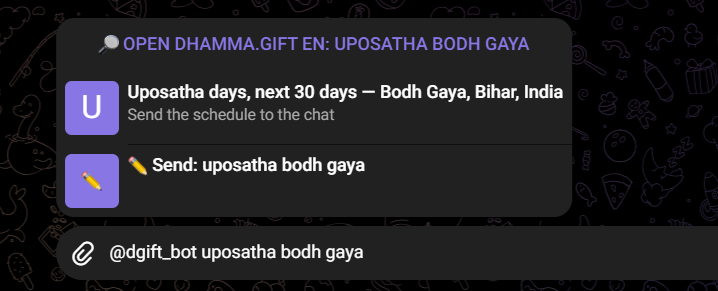
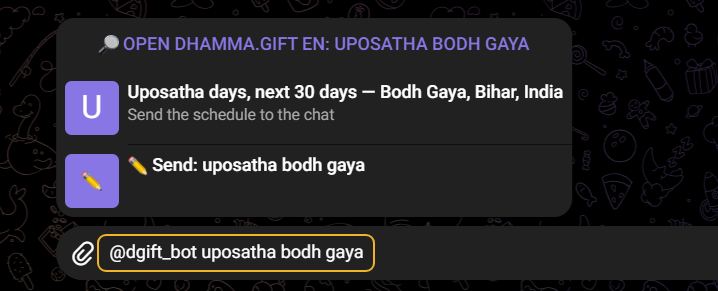
Docs: Microsoft Store and the Telegram bot on the Uposatha page (a section «Where it works» with the badges, the three Windows widgets and /uposatha in the bot), the Microsoft Store badge on the Dhamma.Gift app page; Telegram bot page: the inline screenshots frame what is typed and a caption says it
Claude-Session: https://claude.ai/code/session_019kKsVzdFpaa54zZdAXFvwg

Changed region(s): [[0.1532, 0.8969, 0.5209, 0.9588], [0.1226, 0.8041, 0.5209, 0.8351], [0.1226, 0.8969, 0.1532, 0.9278]]

diff --git a/i18n/ru/docusaurus-plugin-content-docs/current/dhamma/uposatha.md b/i18n/ru/docusaurus-plugin-content-docs/current/dhamma/uposatha.md
@@ -10,6 +10,8 @@ import UpoDates from '@site/static/img/help/uposatha-dates.png';
 import UpoParts from '@site/static/img/help/uposatha-parts.png';
 import UpoSettings from '@site/static/img/help/uposatha-settings.png';
 import AlbumartUposatha from '@site/static/img/thumb/albumart-uposatha-nobg.webp';
+import SiteLink from '@site/src/components/SiteLink';
+import MsStore from '@site/static/img/buttons/msstore-cta.png';
 
 # Дни упосатхи
 
@@ -23,6 +25,21 @@ import AlbumartUposatha from '@site/static/img/thumb/albumart-uposatha-nobg.webp
 (слайдшоу «Из сутт» и список «Показать все»).
 
 <UposathaCalendar />
+
+## Где работает
+
+<div style={{display: 'flex', flexWrap: 'wrap', gap: '12px', alignItems: 'center', margin: '1rem 0'}}>
+  <a href="https://apps.microsoft.com/detail/9NMD1L6H52ZN"><img src={MsStore} alt="Uposatha by the Suttas в Microsoft Store" style={{maxWidth: '200px'}} /></a>
+  <a href="https://t.me/dgift_bot"><img src="/assets/img/buttons/telegram-cta.png" alt="Открыть @dgift_bot в Telegram" style={{maxWidth: '200px'}} /></a>
+  <SiteLink to="/uposatha-calendar"><img src="/assets/img/buttons/pwa-cta.png" alt="Открыть календарь как веб-приложение" style={{maxWidth: '200px'}} /></SiteLink>
+</div>
+
+- **Windows 11** — *Uposatha by the Suttas* в [Microsoft Store](https://apps.microsoft.com/detail/9NMD1L6H52ZN): календарь в своём окне и три виджета для доски
+  виджетов (Win + W, затем «+»). *Uposatha + kala* — сколько до ближайшей упосатхи и время ли сейчас для еды; *Day & night* —
+  какая часть дня или ночи идёт; *Month* — месяц с отмеченными днями упосатхи.
+- **Telegram** — `/uposatha` в чате с [@dgift_bot](https://t.me/dgift_bot) или `@dgift_bot упосатха Алматы`, набранное в любом
+  чате: ближайшие 30 дней с временами Солнца для вашего города. Подробнее — на странице [Телеграм-бот](/telegram-bot).
+- **Любой браузер** — [страница календаря](pathname:///uposatha-calendar); через меню браузера она ставится как приложение.
 
 ## Как читать календарь
 

diff --git a/docs/dhamma/uposatha.md b/docs/dhamma/uposatha.md
@@ -10,6 +10,8 @@ import UpoDates from '@site/static/img/help/uposatha-dates-en.png';
 import UpoParts from '@site/static/img/help/uposatha-parts-en.png';
 import UpoSettings from '@site/static/img/help/uposatha-settings-en.png';
 import AlbumartUposatha from '@site/static/img/thumb/albumart-uposatha-nobg.webp';
+import SiteLink from '@site/src/components/SiteLink';
+import MsStore from '@site/static/img/buttons/msstore-cta.png';
 
 # Uposatha days
 
@@ -23,6 +25,21 @@ the app; below is the real page, a live demo (scroll inside it, or open it in a 
 the calendar page (the slideshow "From the suttas" and its "Show all" list).
 
 <UposathaCalendar />
+
+## Where it works
+
+<div style={{display: 'flex', flexWrap: 'wrap', gap: '12px', alignItems: 'center', margin: '1rem 0'}}>
+  <a href="https://apps.microsoft.com/detail/9NMD1L6H52ZN"><img src={MsStore} alt="Get Uposatha by the Suttas from the Microsoft Store" style={{maxWidth: '200px'}} /></a>
+  <a href="https://t.me/dgift_bot"><img src="/assets/img/buttons/telegram-cta.png" alt="Open @dgift_bot on Telegram" style={{maxWidth: '200px'}} /></a>
+  <SiteLink to="/uposatha-calendar"><img src="/assets/img/buttons/pwa-cta.png" alt="Open the calendar as a web app" style={{maxWidth: '200px'}} /></SiteLink>
+</div>
+
+- **Windows 11** — *Uposatha by the Suttas* in the [Microsoft Store](https://apps.microsoft.com/detail/9NMD1L6H52ZN): the calendar in its own window and three
+  widgets for the Widgets Board (Win + W, then "+"). *Uposatha + kala* — how long to the next Uposatha day and whether it is the
+  time for food now; *Day & night* — the part of the day or night that is going on; *Month* — the month with the Uposatha days marked.
+- **Telegram** — `/uposatha` in the chat of [@dgift_bot](https://t.me/dgift_bot), or `@dgift_bot uposatha Chiang Mai` typed in
+  any chat: the next 30 days with the sun times of your city. More on the [Telegram bot](/telegram-bot) page.
+- **Any browser** — the [calendar page](pathname:///uposatha-calendar); the browser's menu installs it as an app.
 
 ## Reading the calendar
 

diff --git a/docs/user/telegram-bot.md b/docs/user/telegram-bot.md
@@ -34,6 +34,8 @@ Type `@dgift_bot` in the message box of any chat and then a Pali word
 
 <img src={InlineSutta} alt="@dgift_bot sn56.11 in the message box of a chat: Send: sn56.11, sn56.11 Dhammacakkappavattanasutta, sn56.111-113 Devamanussanirayādisutta" style={{maxWidth: '100%', borderRadius: 10}} />
 
+<p style={{fontSize: '0.85em', opacity: 0.75, marginTop: '0.3em'}}>In the frame: what is typed in the message box of <b>any chat or group</b>, not in the bot's own chat.</p>
+
 Above the list there is a button — `🔎 Open Dhamma.gift En: sn56.11` — it opens
 Dhamma.gift as a Mini App with the query already searched.
 
@@ -71,12 +73,17 @@ Open-Meteo geocoder for the rest.
 
 <img src={InlineUposatha} alt="@dgift_bot uposatha bodh gaya in the message box: Uposatha days, next 30 days — Bodh Gaya, Bihar, India" style={{maxWidth: '100%', borderRadius: 10}} />
 
+<p style={{fontSize: '0.85em', opacity: 0.75, marginTop: '0.3em'}}>In the frame: what is typed in the message box of <b>any chat or group</b>, not in the bot's own chat.</p>
+
 The dates are the same for everybody — the moon is one — and only the sun times
 are local. The list ends with `Times: begin · dawn · noon · end`, and two buttons
 sit under the message: the Ru/En switch and the link to the full calendar at
 [dhamma.gift/uposatha-calendar](https://dhamma.gift/uposatha-calendar).
 
 <img src={MessageUposatha} alt="The sent Uposatha message: Uposatha by the suttas for the next 30 days (Bodh Gaya, Bihar, India) with six days and their times, the line Times: begin · dawn · noon · end, and the buttons Lang En/Ru and Uposatha calendar" style={{maxWidth: '100%', borderRadius: 10}} />
+
+How to read these days is on the [Uposatha days](/uposatha) page. On Windows 11 the same calendar is an app with widgets:
+*Uposatha by the Suttas* in the [Microsoft Store](https://apps.microsoft.com/detail/9NMD1L6H52ZN).
 
 ## In the bot's chat
 

diff --git a/i18n/ru/docusaurus-plugin-content-docs/current/user/dhamma-gift-app.md b/i18n/ru/docusaurus-plugin-content-docs/current/user/dhamma-gift-app.md
@@ -3,17 +3,23 @@ slug: /dhamma-gift-app
 sidebar_position: 14
 ---
 
+import MsStore from '@site/static/img/buttons/msstore-cta.png';
+
 # Dhamma.Gift (приложение)
 
 <div style={{display: 'flex', flexWrap: 'wrap', gap: '0.5rem', margin: '1rem 0'}}>
   <a href="https://apps.apple.com/app/id6813706217"><img src="/assets/img/buttons/appstore-cta.png" alt="Загрузите в App Store" style={{height: '56px'}} /></a>
   <a href="https://play.google.com/store/apps/details?id=gift.dhamma.twa"><img src="/assets/img/buttons/google-play-cta.png" alt="Доступно в Google Play" style={{height: '56px'}} /></a>
+  <a href="https://apps.microsoft.com/detail/9NK892G5P5GT"><img src={MsStore} alt="Dhamma.Gift в Microsoft Store" style={{height: '56px'}} /></a>
 </div>
 
 Приложение Dhamma.Gift для iPhone, iPad и Android: поиск и чтение
 Палийского канона — сутты и Винаю на пали с русскими и английскими
 переводами — с интернетом и без. Бесплатно, без рекламы, без слежки, без
 обязательного аккаунта.
+
+В Windows 10 и 11 Dhamma.Gift есть в [Microsoft Store](https://apps.microsoft.com/detail/9NK892G5P5GT): сайт в своём окне,
+всегда текущая версия.
 
 ## Офлайн-библиотека
 

diff --git a/docs/user/dhamma-gift-app.md b/docs/user/dhamma-gift-app.md
@@ -3,17 +3,23 @@ slug: /dhamma-gift-app
 sidebar_position: 14
 ---
 
+import MsStore from '@site/static/img/buttons/msstore-cta.png';
+
 # Dhamma.Gift (the application)
 
 <div style={{display: 'flex', flexWrap: 'wrap', gap: '0.5rem', margin: '1rem 0'}}>
   <a href="https://apps.apple.com/app/id6813706217"><img src="/assets/img/buttons/appstore-cta.png" alt="Download on the App Store" style={{height: '56px'}} /></a>
   <a href="https://play.google.com/store/apps/details?id=gift.dhamma.twa"><img src="/assets/img/buttons/google-play-cta.png" alt="Get it on Google Play" style={{height: '56px'}} /></a>
+  <a href="https://apps.microsoft.com/detail/9NK892G5P5GT"><img src={MsStore} alt="Get Dhamma.Gift from the Microsoft Store" style={{height: '56px'}} /></a>
 </div>
 
 The Dhamma.Gift app for iPhone, iPad and Android: search and read the Pāli
 Canon — Suttas and Vinaya in Pāli with Russian and English translations —
 with or without an internet connection. Free, no ads, no tracking, no
 account needed.
+
+On Windows 10 and 11 Dhamma.Gift is in the [Microsoft Store](https://apps.microsoft.com/detail/9NK892G5P5GT): the site in its
+own window, always the current version.
 
 ## Offline library
 
